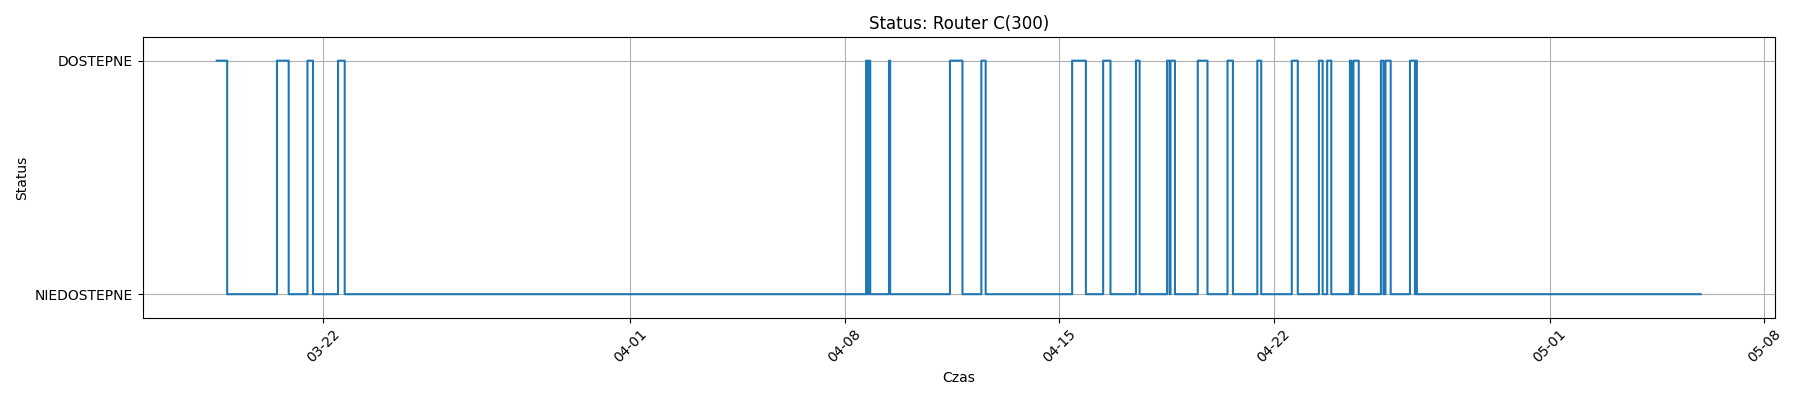
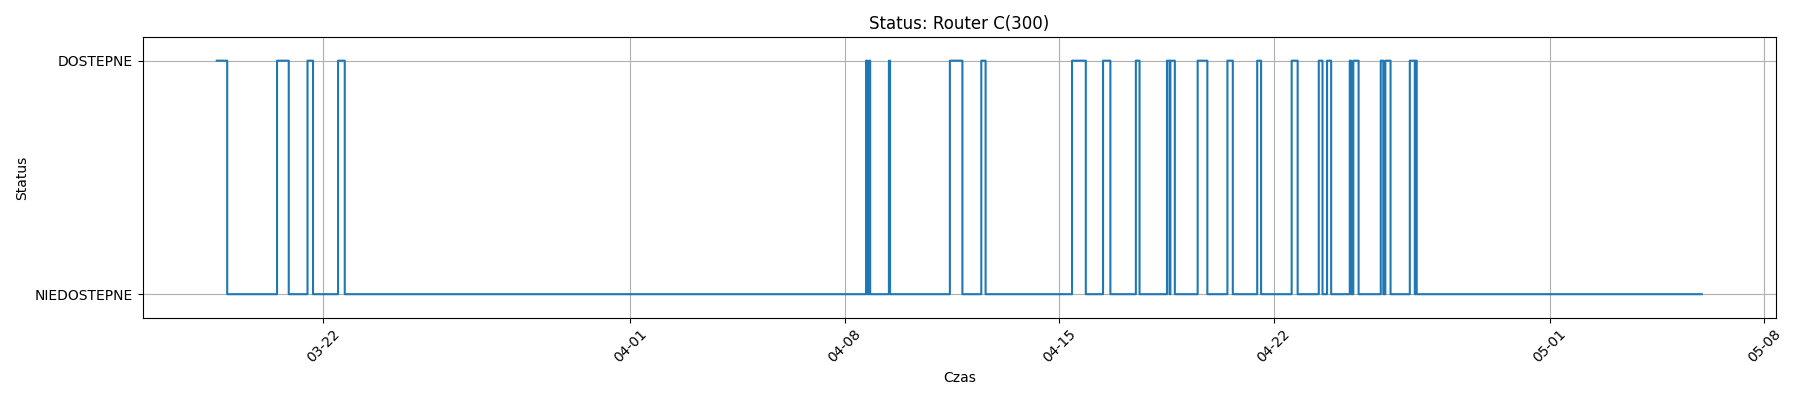
Automatyczna aktualizacja monitoringu

Changed region(s): [[0.7156, 0.15, 0.7778, 0.72], [0.6533, 0.15, 0.6844, 0.72], [0.5289, 0.93, 0.56, 0.96]]

diff --git a/index.html b/index.html
@@ -33,5 +33,5 @@ img { border: 1px solid #ccc; border-radius: 8px; }
                 <div>Router C(300)</div>
                 <img src="chart_Router C(300).png" alt="Router C(300)" style="max-width:600px; margin-top:10px;">
             </div>
-            <p>Ostatnia zmiana: 2026-05-05 22:07:55</p>
+            <p>Ostatnia zmiana: 2026-05-05 23:10:14</p>
 </body></html>
